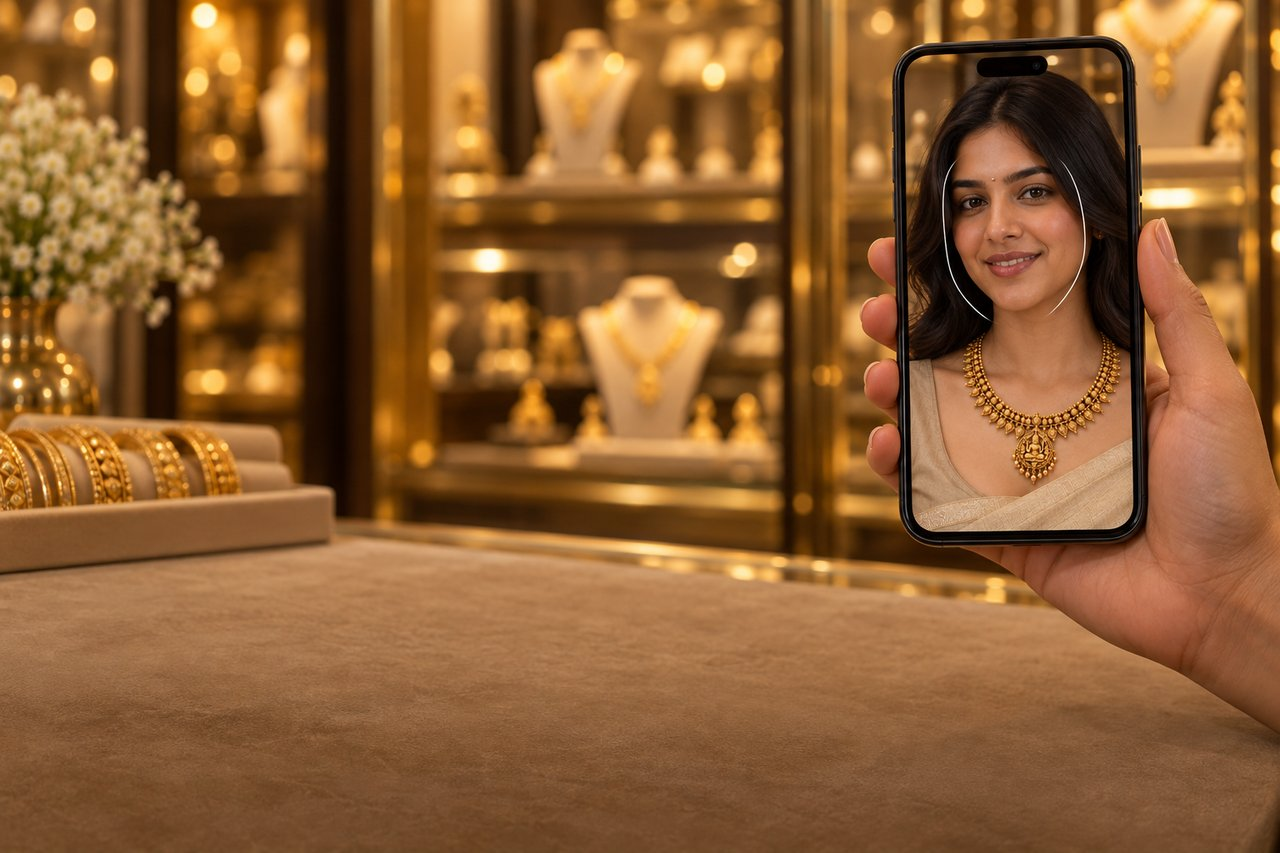
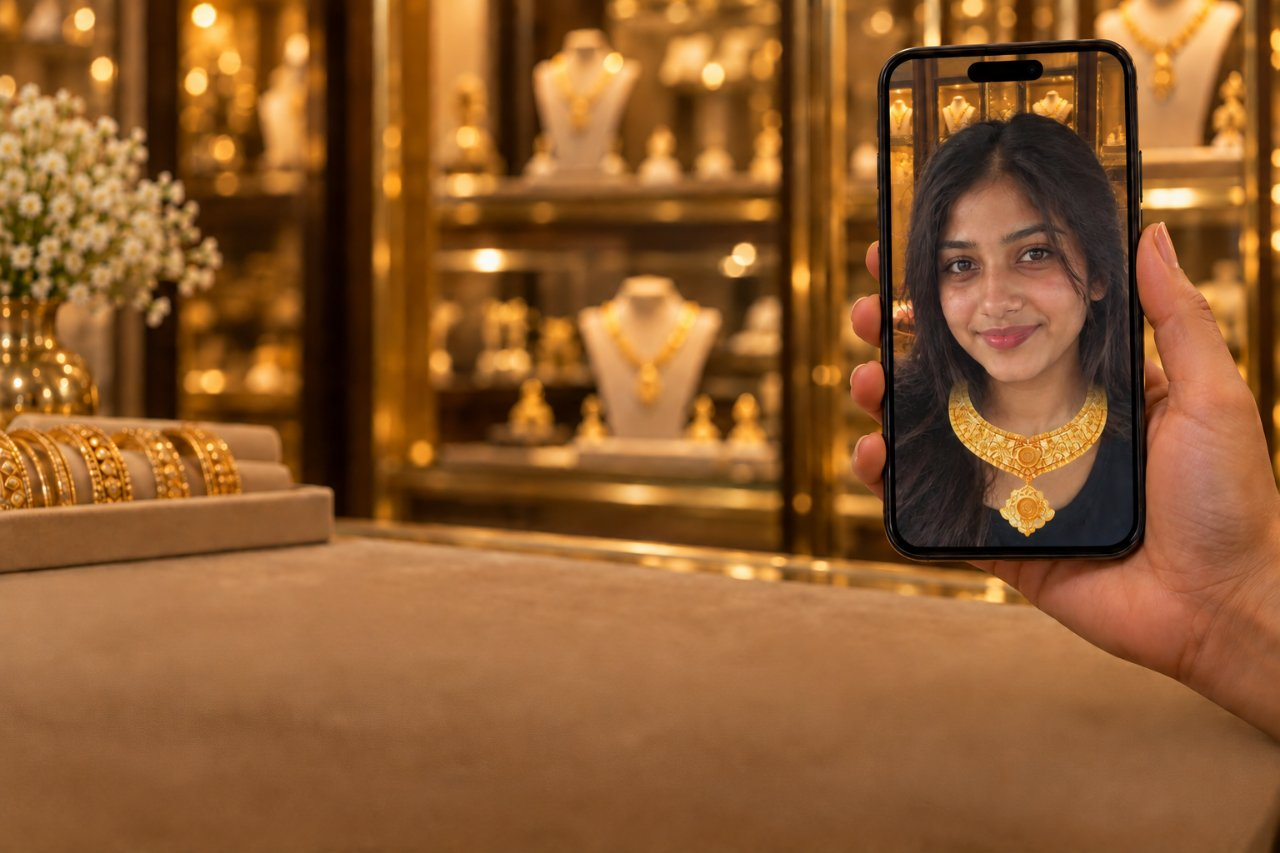
Replace LIVE TRY-ON feature card photo
Swaps public/images/12.jpg for a new photo of a hand holding a phone
showing LIVE TRY-ON with a gold necklace on a woman, jewellery shop in
the background. Resized/re-encoded to match the existing card's 1280x853
(3:2) dimensions so it uses the same crop and dark-fade overlay as the
other three feature cards, and updated the alt text to describe it.

diff --git a/src/components/FeaturesSection.tsx b/src/components/FeaturesSection.tsx
@@ -3,7 +3,7 @@ import { useScrollReveal } from '../hooks/useScrollReveal';
 import { Icon } from './Icon';
 
 const features = [
-  ['12.jpg', 'Hand holding a phone with LIVE TRY-ON of a gold necklace on screen', 'camera', 'LIVE TRY-ON', 'Let customers see how a design looks on them through their phone camera.'],
+  ['12.jpg', 'Hand holding a phone showing LIVE TRY-ON of a gold necklace on a woman, with a jewellery shop in the background', 'camera', 'LIVE TRY-ON', 'Let customers see how a design looks on them through their phone camera.'],
   ['13.jpg', 'Phone photographing a gold necklace with a crop frame on screen', 'upload', 'Upload your designs', 'Bring your own jewellery photos into the app. Ready for try-on after approval.'],
   ['14.jpg', 'Phone showing a WhatsApp chat with a jewellery link and shop name', 'share', 'Share with your shop name', 'Send a jewellery link on WhatsApp. Customers try it from home.'],
   ['15.jpg', 'Phone showing a grid of saved gold jewellery designs with hearts', 'heart', 'Save favourite designs', 'Keep selected designs together, ready to show when a customer asks.'],
